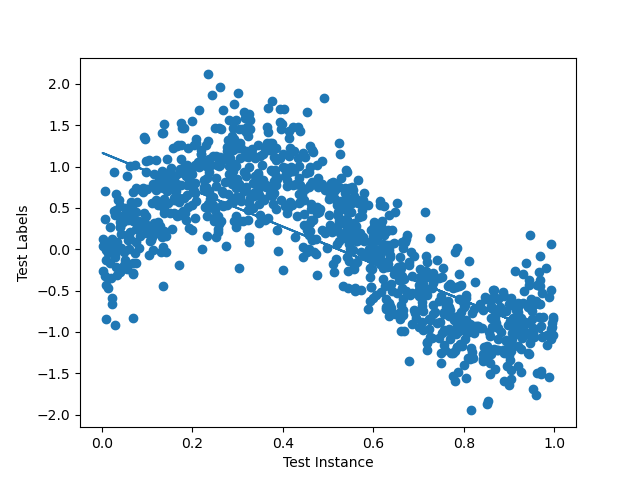
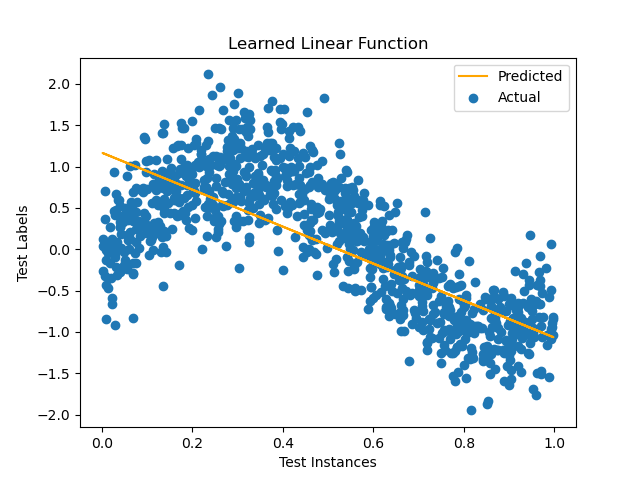
Finished!

diff --git a/PS1-P6.py b/PS1-P6.py
@@ -29,6 +29,7 @@ plt.plot(xaxis, test_errors, label="Testing")
 plt.plot(xaxis, train_errors, label="Training")
 plt.xlabel("Percent Training Data")
 plt.ylabel("Mean Squared Error")
+plt.title("Unregularized Learning Curve")
 plt.legend()
 plt.savefig("learning_curve6.png")
 plt.show()
@@ -39,10 +40,12 @@ print("Bias: ", train.bias)
 print("Training error: ", train_errors[9])
 print("Testing error: ", test_errors[9])
 
-plt.plot(X_test, ytest)
-plt.scatter(X_test, y_test)
-plt.xlabel("Test Instance")
+plt.plot(X_test, ytest, color="orange", label="Predicted")
+plt.scatter(X_test, y_test, label="Actual")
+plt.xlabel("Test Instances")
 plt.ylabel("Test Labels")
+plt.title("Learned Linear Function")
+plt.legend()
 plt.savefig("learned_linear_function.png")
 plt.show()
 
@@ -139,19 +142,27 @@ best_lambda10 = regularizer_values[cross_index10]
 cross_index100 = np.argmin(avg_reg_error100)
 best_lambda100 = regularizer_values[cross_index100]
 
+train_final = LeastSquareRegression(regularizer_values[cross_index10])
+train_final.fit(train_cross10[0], train_cross10[1])
 print("10%: Set of all cross-validation errors are as follows: ", avg_reg_error10)
 print("10%: The optimal lambda is: "+str(best_lambda10))
 print("10%: The corresponding training error is: ",
       train_errors2_reg10[cross_index10])
 print("10%: The corresponding testing error is: ",
       test_errors2_reg10[cross_index10])
+print("10%: Weight vector: ", train_final.weight)
+print("10%: Bias term: ", train_final.bias)
 
+train_final = LeastSquareRegression(regularizer_values[cross_index100])
+train_final.fit(train_cross100[0], train_cross100[1])
 print("100%: Set of all cross-validation errors are as follows: ", avg_reg_error100)
 print("100%: The optimal lambda is: "+str(best_lambda100))
 print("100%: The corresponding training error is: ",
       train_errors2_reg100[cross_index100])
 print("100%: The corresponding testing error is: ",
       test_errors2_reg100[cross_index100])
+print("100%: Weight vector: ", train_final.weight)
+print("100%: Bias term: ", train_final.bias)
 
 plt.plot(regularizer_values, avg_reg_error10, label="Cross")
 plt.plot(regularizer_values, test_errors2_reg10, label="Testing")
